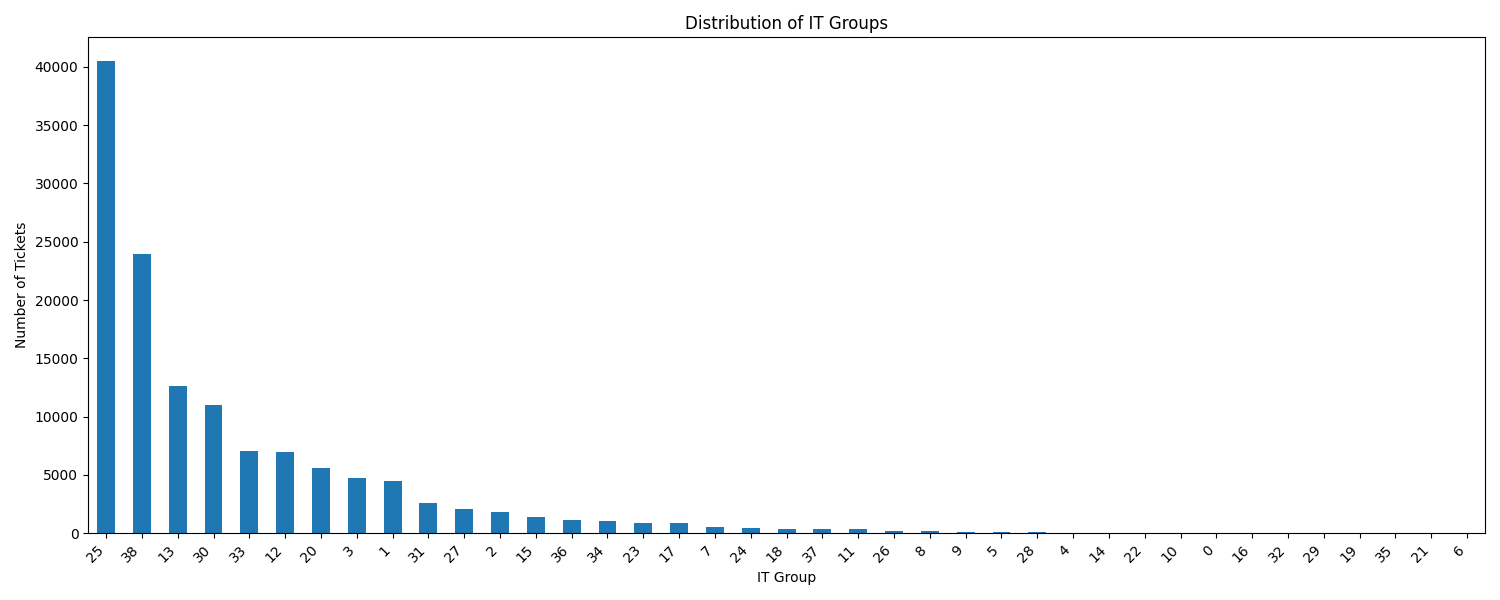
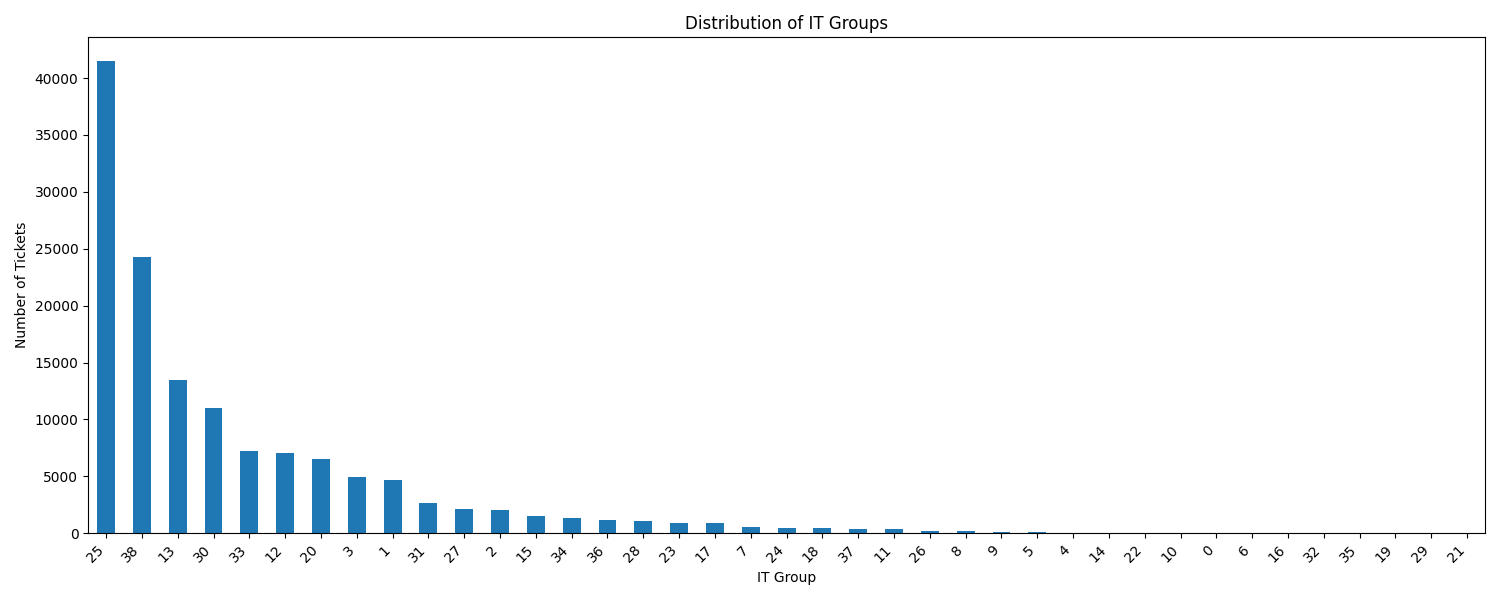
random stuff

diff --git a/notebooks/working.py b/notebooks/working.py
@@ -44,7 +44,7 @@ else:
 
 # Load CSV
 print("Loading CSV...")
-df = pd.read_csv('dataframe2024-11-21_04-29.csv')
+df = pd.read_csv('dataframe2024-12-03_15-13.csv')
 
 # Data Cleaning
 print("Cleaning Data...")
@@ -196,86 +196,7 @@ print_detailed_results(results)
 plot_model_accuracies(results)
 plot_class_distribution(df)
 
-print("Training Transformer models...")
-# Train Transformer models
-transformer_models = [
-    'bert-base-uncased',
-    'roberta-base'
-]
-
-transformer_results = {}
-for model_name in transformer_models:
-    print(f"\n--- Training {model_name} ---")
-    try:
-        model, tokenizer, label_encoder = transformer_classification(
-            df, 
-            model_name, 
-            max_len=512, 
-            batch_size=16, 
-            epochs=3
-        )
-        transformer_results[model_name] = {
-            'model': model,
-            'tokenizer': tokenizer,
-            'label_encoder': label_encoder
-        }
-    except Exception as e:
-        print(f"Error training {model_name}: {e}")
-
-# Comprehensive Results Printing
-print("\n--- Traditional ML Model Performance ---")
-for name, result in results.items():
-    print(f"{name}: Accuracy = {result['accuracy']:.4f}")
-    print(f"Classification Report:\n{result['classification_report']}\n")
-
-print("\n--- Transformer Model Performance ---")
-for name, result in transformer_results.items():
-    # Note: Transformer performance will be printed during training
-    print(f"{name} training completed")
-
-# Optional: Comparative Analysis Function
-def compare_model_predictions(text, models_dict):
-    """
-    Compare predictions across different models
-    
-    Args:
-        text (str): Input text to classify
-        models_dict (dict): Dictionary of models
-    
-    Returns:
-        dict: Predictions from different models
-    """
-    predictions = {}
-    
-    # Traditional ML Models
-    for name, pipeline in pipelines.items():
-        predictions[name] = pipeline.predict([text])[0]
-    
-    # Transformer Models
-    for name, model_info in transformer_results.items():
-        predictions[name] = predict_with_transformer(
-            text, 
-            model_info['model'], 
-            model_info['tokenizer'], 
-            model_info['label_encoder']
-        )
-    
-    return predictions
-
-# Example usage of comparative prediction
-sample_text = df['combined'].iloc[0]
-comparative_predictions = compare_model_predictions(sample_text, pipelines)
-print("\nComparative Predictions for Sample Text:")
-for model, prediction in comparative_predictions.items():
-    print(f"{model}: {prediction}")
-
-print("Clearing Memory...")
-# Clear memory
-gc.collect()
-
-print("Done!")
-
-def transformer_classification(df, model_name, max_len=512, batch_size=16, epochs=3):
+def transformer_classification(df, model_name, max_len=512, batch_size=8, epochs=3):
     """
     Train a transformer model for text classification
     
@@ -352,11 +273,12 @@ def transformer_classification(df, model_name, max_len=512, batch_size=16, epoch
         num_training_steps=total_steps
     )
     
-    # Training loop
+    # Training loop with logging
     model.train()
     for epoch in range(epochs):
+        print(f"Epoch {epoch+1}/{epochs}")
         total_loss = 0
-        for batch in train_loader:
+        for step, batch in enumerate(train_loader):
             optimizer.zero_grad()
             input_ids = batch[0].to(device)
             attention_mask = batch[1].to(device)
@@ -374,8 +296,11 @@ def transformer_classification(df, model_name, max_len=512, batch_size=16, epoch
             torch.nn.utils.clip_grad_norm_(model.parameters(), 1.0)
             optimizer.step()
             scheduler.step()
-        
-        print(f"Epoch {epoch+1}/{epochs}, Loss: {total_loss/len(train_loader)}")
+            
+            if step % 10 == 0:
+                print(f"Epoch {epoch+1}/{epochs}, Step {step}/{len(train_loader)}, Loss: {loss.item()}")
+
+        print(f"Epoch {epoch+1}/{epochs}, Average Loss: {total_loss/len(train_loader)}")
     
     # Evaluation
     model.eval()
@@ -397,3 +322,120 @@ def transformer_classification(df, model_name, max_len=512, batch_size=16, epoch
     print(classification_report(true_labels, predictions))
     
     return model, tokenizer, le
+
+print("Training Transformer models...")
+# Train Transformer models
+transformer_models = [
+    'bert-base-uncased',
+    'roberta-base'
+]
+
+transformer_results = {}
+for model_name in transformer_models:
+    print(f"\n--- Training {model_name} ---")
+    try:
+        model, tokenizer, label_encoder = transformer_classification(
+            df, 
+            model_name, 
+            max_len=512, 
+            batch_size=8, 
+            epochs=3
+        )
+        transformer_results[model_name] = {
+            'model': model,
+            'tokenizer': tokenizer,
+            'label_encoder': label_encoder
+        }
+    except Exception as e:
+        print(f"Error training {model_name}: {e}")
+
+# Comprehensive Results Printing
+print("\n--- Traditional ML Model Performance ---")
+for name, result in results.items():
+    print(f"{name}: Accuracy = {result['accuracy']:.4f}")
+    print(f"Classification Report:\n{result['classification_report']}\n")
+
+print("\n--- Transformer Model Performance ---")
+for name, result in transformer_results.items():
+    # Note: Transformer performance will be printed during training
+    print(f"{name} training completed")
+
+# Optional: Comparative Analysis Function
+def compare_model_predictions(text, models_dict):
+    """
+    Compare predictions across different models
+    
+    Args:
+        text (str): Input text to classify
+        models_dict (dict): Dictionary of models
+    
+    Returns:
+        dict: Predictions from different models
+    """
+    predictions = {}
+    
+    # Traditional ML Models
+    for name, pipeline in pipelines.items():
+        predictions[name] = pipeline.predict([text])[0]
+    
+    # Transformer Models
+    for name, model_info in transformer_results.items():
+        predictions[name] = predict_with_transformer(
+            text, 
+            model_info['model'], 
+            model_info['tokenizer'], 
+            model_info['label_encoder']
+        )
+    
+    return predictions
+
+# Example usage of comparative prediction
+sample_text = df['combined'].iloc[0]
+comparative_predictions = compare_model_predictions(sample_text, pipelines)
+print("\nComparative Predictions for Sample Text:")
+for model, prediction in comparative_predictions.items():
+    print(f"{model}: {prediction}")
+
+print("Clearing Memory...")
+# Clear memory
+gc.collect()
+
+print("Done!")
+
+def predict_with_transformer(text, model, tokenizer, label_encoder, max_len=512):
+    """
+    Make a prediction using a transformer model.
+    
+    Args:
+        text (str): The input text to classify.
+        model (transformers.PreTrainedModel): The transformer model.
+        tokenizer (transformers.PreTrainedTokenizer): The tokenizer for the model.
+        label_encoder (LabelEncoder): The label encoder used for encoding labels.
+        max_len (int): Maximum sequence length for the input text.
+    
+    Returns:
+        int: The predicted class label.
+    """
+    # Tokenize the input text
+    encoding = tokenizer(
+        text,
+        truncation=True,
+        padding='max_length',
+        max_length=max_len,
+        return_tensors='pt'
+    )
+    
+    # Move tensors to the appropriate device
+    input_ids = encoding['input_ids'].to(device)
+    attention_mask = encoding['attention_mask'].to(device)
+    
+    # Make prediction
+    model.eval()
+    with torch.no_grad():
+        outputs = model(input_ids, attention_mask=attention_mask)
+        _, prediction = torch.max(outputs.logits, dim=1)
+    
+    # Decode the predicted label
+    predicted_label = label_encoder.inverse_transform(prediction.cpu().numpy())[0]
+    
+    return predicted_label
